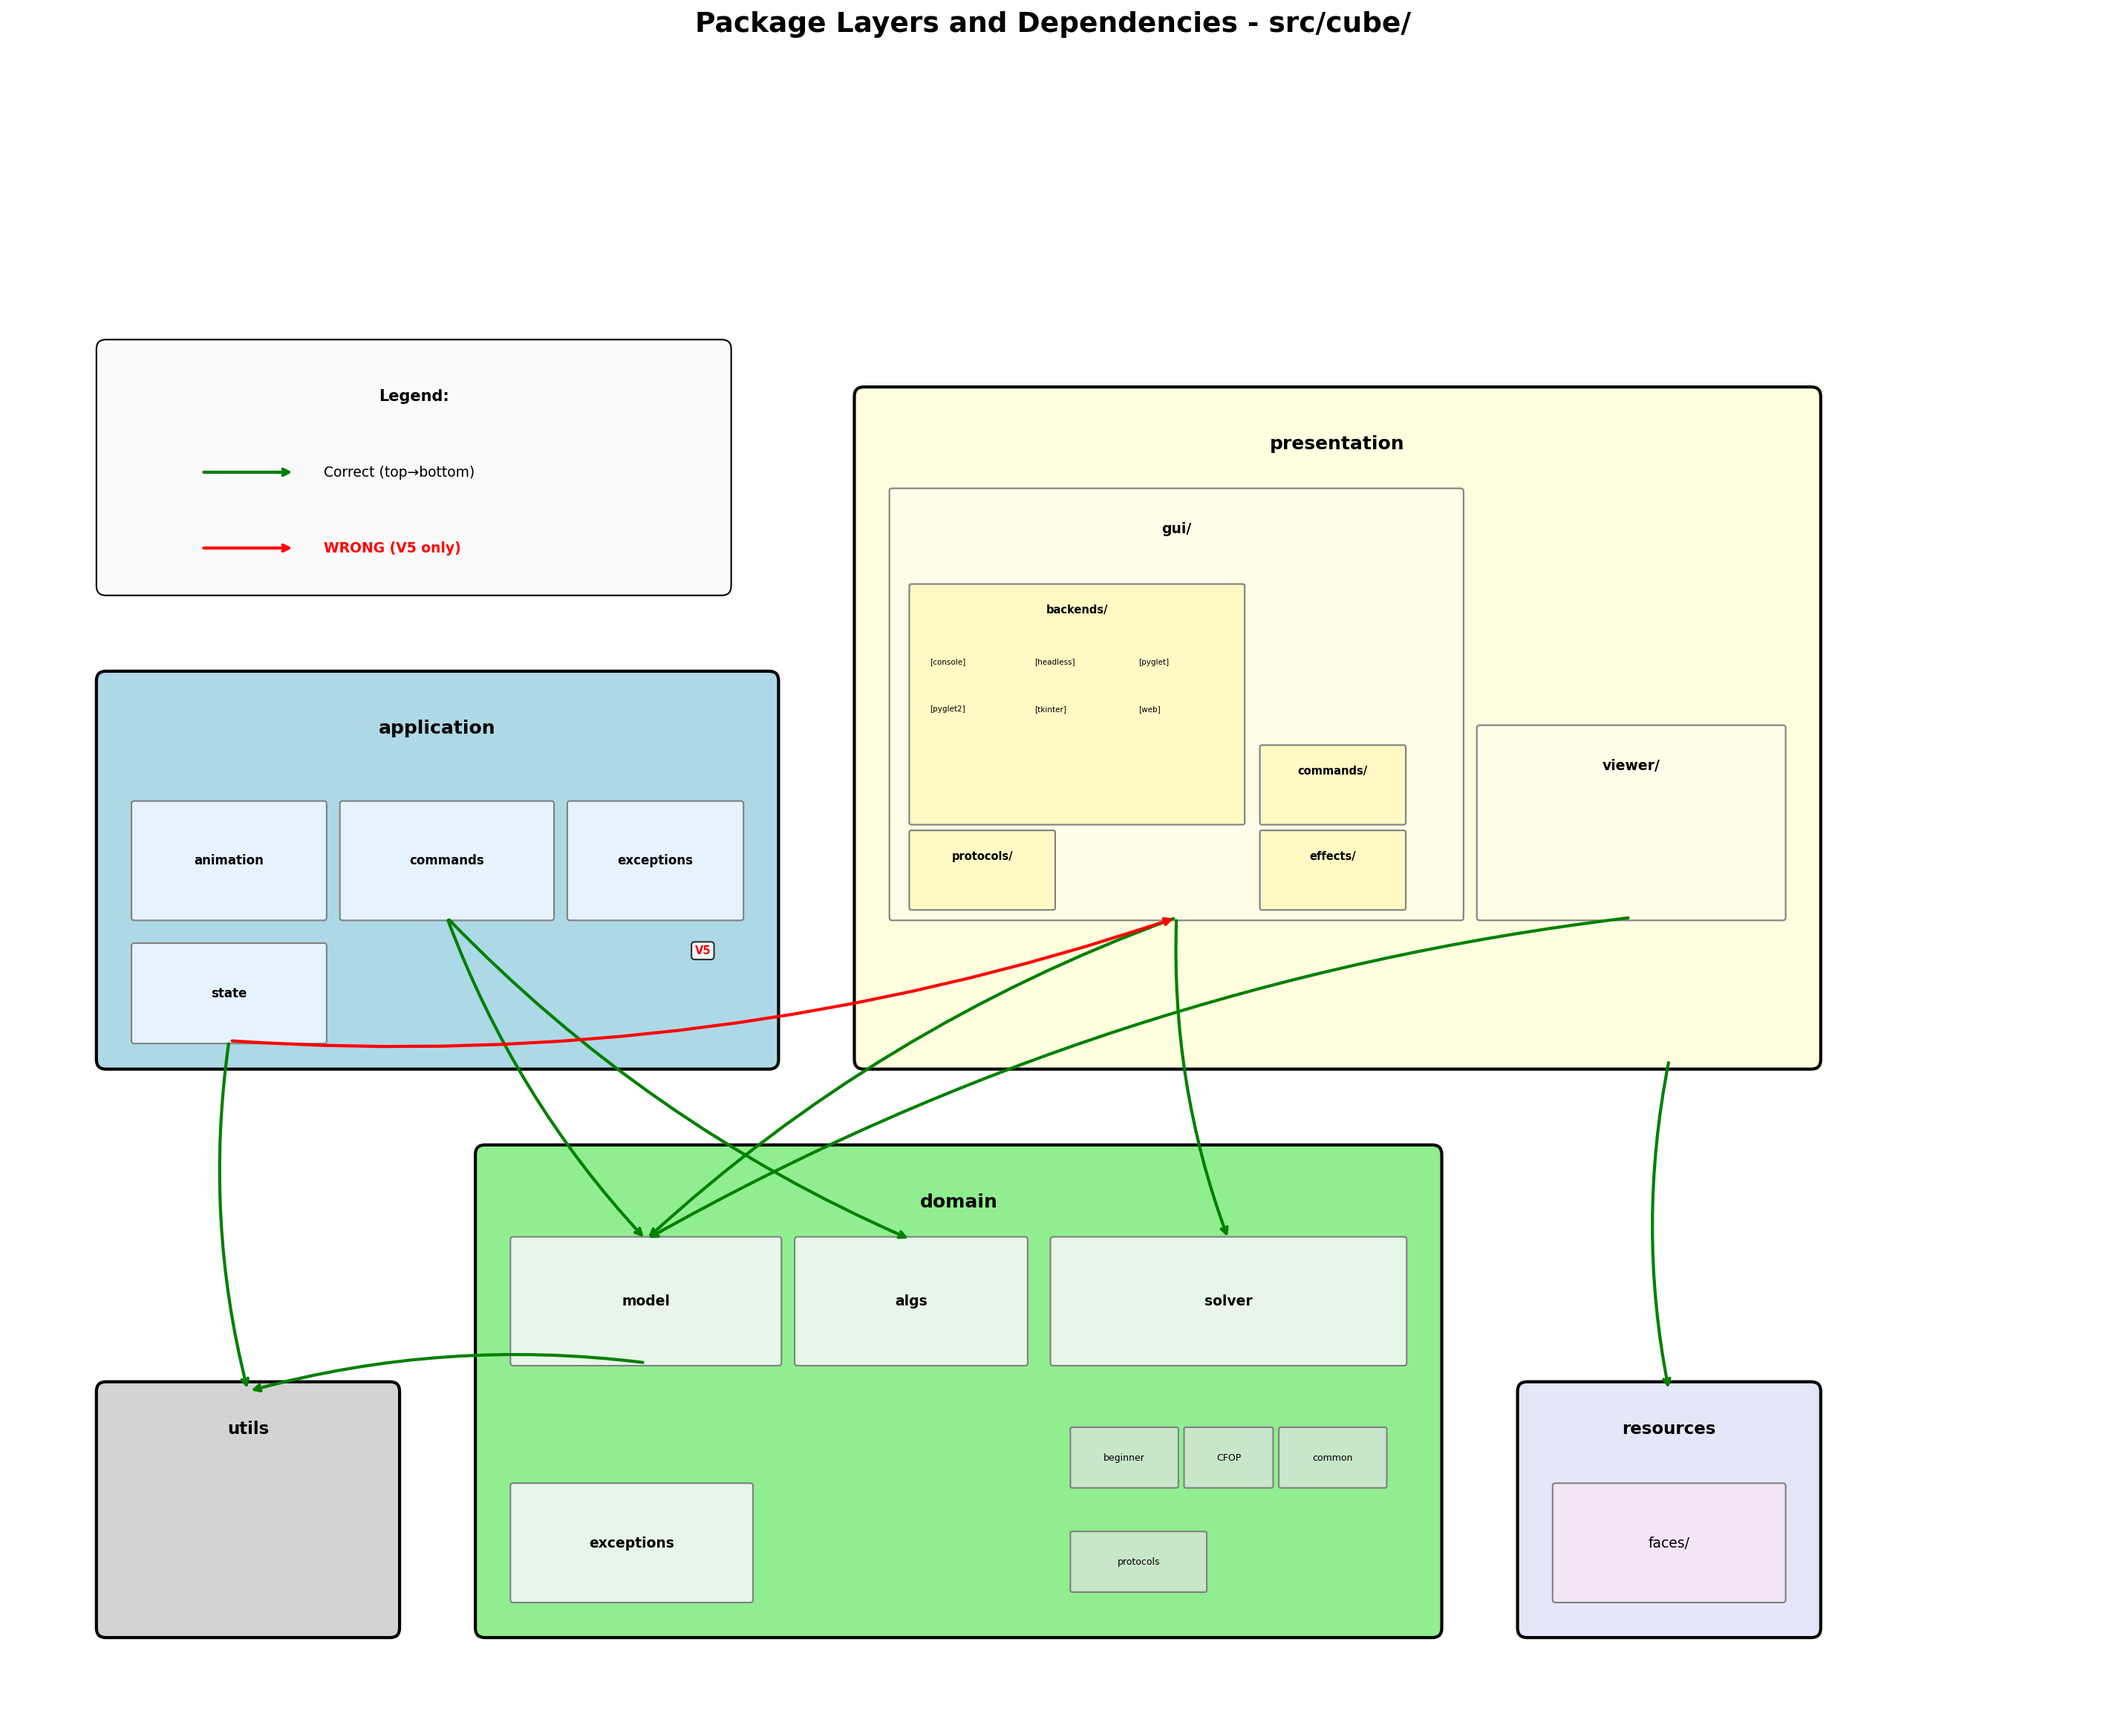
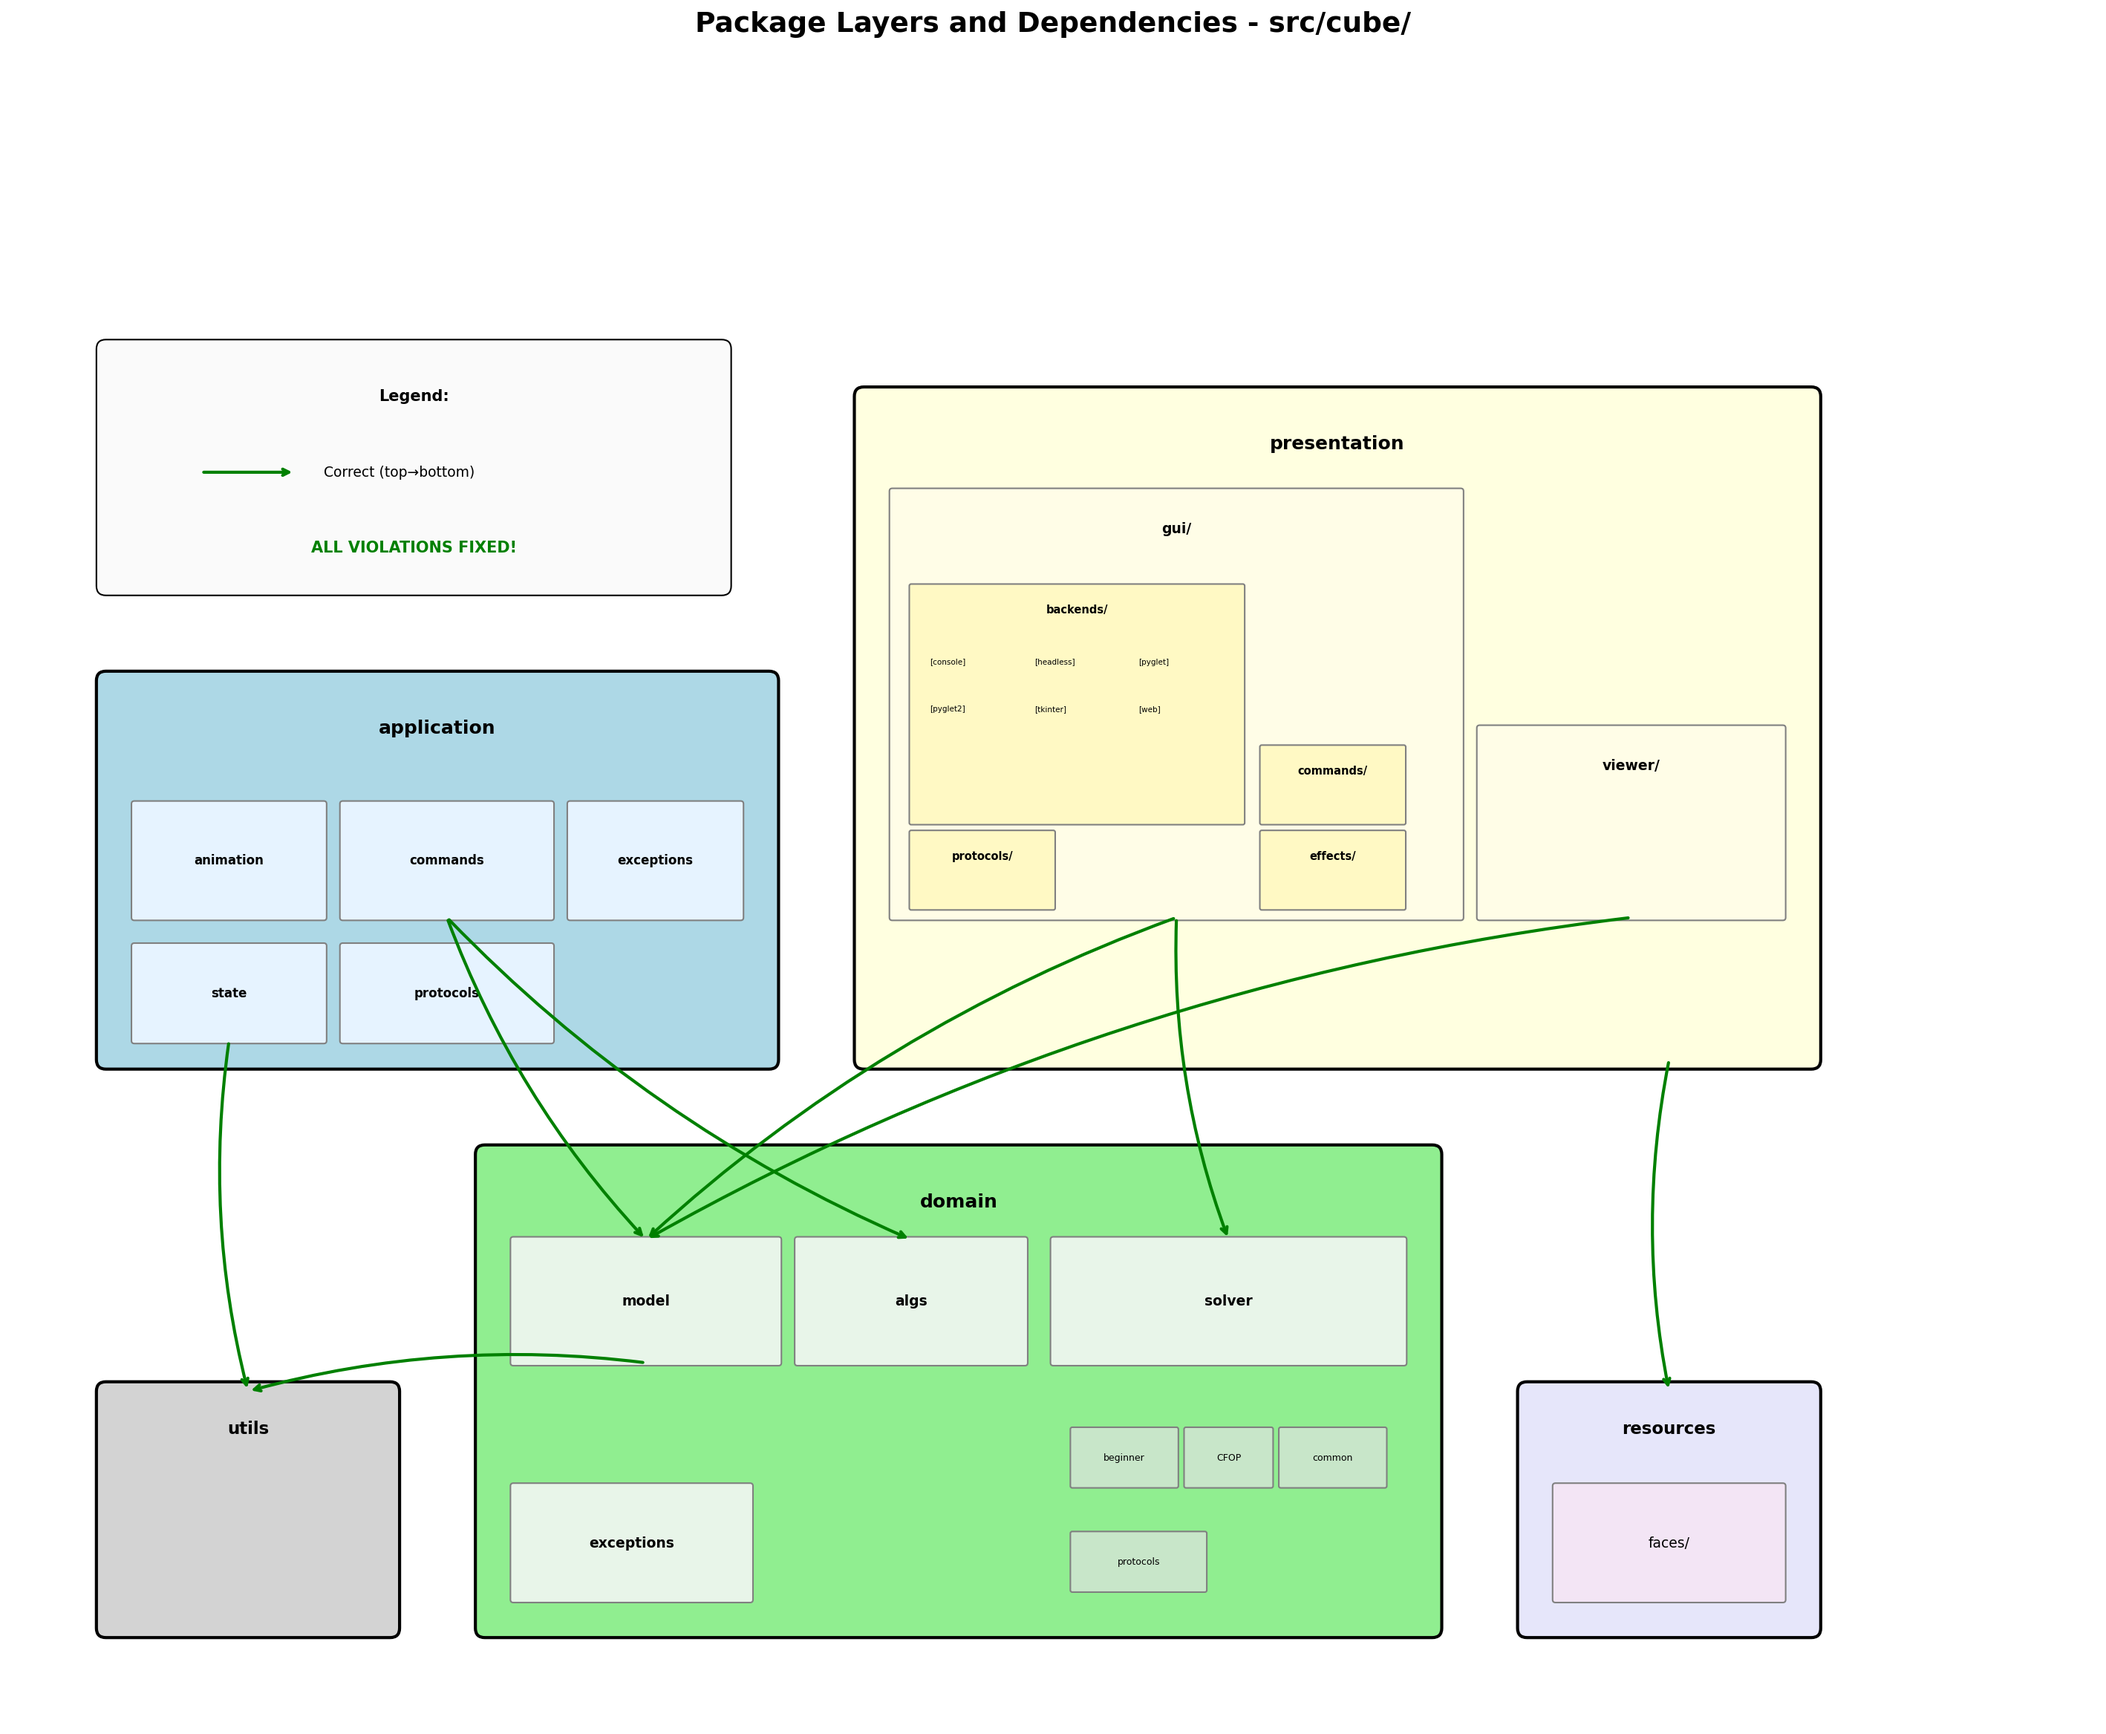
Fix V5c: OpAnnotation/cell import VMarker from domain (not presentation re-export)
- Update imports to use cube.domain.model.VMarker directly
- Delete presentation/viewer/VMarker.py (no longer needed as re-export)
- Update design2 docs: ALL V5 VIOLATIONS FIXED
- Regenerate architecture diagram
- Move Q12 to Done in __todo.md (was fixed by V5b)

🤖 Generated with [Claude Code](https://claude.com/claude-code)

Changed region(s): [[0.1551, 0.5242, 0.2793, 0.6167], [0.1551, 0.3084, 0.2482, 0.3392], [0.3103, 0.5242, 0.3413, 0.555]]

diff --git a/design2/images/generate_layers_diagrams.py b/design2/images/generate_layers_diagrams.py
@@ -7,7 +7,7 @@ Violations status (as of 2025-12-07):
 - V2: FIXED - domain.solver.protocols created
 - V3: FIXED - VMarker moved to domain.model
 - V4: FIXED - ConfigProtocol in utils, application implements it
-- V5: OPEN - application imports protocols/viewer from presentation (4 files)
+- V5: FIXED - Moved protocols to application/protocols, ViewSetup to presentation
 """
 
 import matplotlib.pyplot as plt
@@ -408,6 +408,7 @@ def create_combined_layers_diagram():
         ('commands', 2.5, 7.5, 2.2, 1.2),
         ('exceptions', 4.9, 7.5, 1.8, 1.2),
         ('state', 0.3, 6.2, 2, 1),
+        ('protocols', 2.5, 6.2, 2.2, 1),  # V5 fix: application-level protocols
     ]
     for name, x, y, w, h in app_subs:
         ax.add_patch(FancyBboxPatch((x, y), w, h, boxstyle="round,pad=0.03",
@@ -475,14 +476,10 @@ def create_combined_layers_diagram():
     arrow(1.3, 6.2, 1.5, 2.5, 'green')      # app.state -> utils
     arrow(16.5, 6, 16.5, 2.5, 'green')      # pres -> resources
 
-    # V1, V2, V3, V4 FIXED
-    # V5 OPEN - application imports protocols from presentation (4 files)
+    # ALL VIOLATIONS FIXED (V1-V5)
 
     # Green arrow for V4 fix: domain.model -> utils (config_protocol)
     arrow(5.7, 2.8, 1.5, 2.5, 'green')  # domain.model -> utils (config_protocol)
-
-    # Red arrows for remaining violations
-    arrow(1.3, 6.2, 11.3, 7.5, 'red', 'V5')   # app.animation -> pres.gui.protocols (wrong direction)
 
     # Legend
     ax.add_patch(FancyBboxPatch((0, 11), 6.5, 2.5, boxstyle="round,pad=0.1",
@@ -491,9 +488,8 @@ def create_combined_layers_diagram():
     ax.annotate('', xy=(2, 12.2), xytext=(1, 12.2),
                 arrowprops=dict(arrowstyle='->', color='green', lw=2))
     ax.text(2.3, 12.2, 'Correct (top→bottom)', ha='left', va='center', fontsize=9)
-    ax.annotate('', xy=(2, 11.4), xytext=(1, 11.4),
-                arrowprops=dict(arrowstyle='->', color='red', lw=2))
-    ax.text(2.3, 11.4, 'WRONG (V5 only)', ha='left', va='center', fontsize=9, color='red', fontweight='bold')
+    ax.text(3.25, 11.4, 'ALL VIOLATIONS FIXED!', ha='center', va='center',
+            fontsize=10, color='green', fontweight='bold')
 
     plt.tight_layout()
     plt.savefig('combined-layers-dependencies.png', dpi=150, bbox_inches='tight',

diff --git a/src/cube/application/commands/OpAnnotation.py b/src/cube/application/commands/OpAnnotation.py
@@ -8,7 +8,7 @@ from typing import TypeAlias, TYPE_CHECKING, Callable, Tuple, Literal, ContextMa
 from cube.domain.algs.Algs import Algs
 from cube.application.exceptions.app_exceptions import InternalSWError
 from cube.domain.model import Part, PartColorsID, PartEdge, Corner, Edge, PartSlice
-from cube.presentation.viewer.VMarker import VMarker, viewer_add_view_marker, viewer_remove_view_marker
+from cube.domain.model.VMarker import VMarker, viewer_add_view_marker, viewer_remove_view_marker
 from .AnnWhat import AnnWhat
 
 if TYPE_CHECKING:

diff --git a/src/cube/presentation/viewer/_cell.py b/src/cube/presentation/viewer/_cell.py
@@ -12,7 +12,7 @@ from cube.domain.model.cube_boy import Color, FaceName
 from cube.domain.model.Face import Face
 from cube.utils import geometry
 from .TextureData import TextureData
-from .VMarker import VMarker, viewer_get_markers
+from cube.domain.model.VMarker import VMarker, viewer_get_markers
 from cube.application import config
 from cube.domain.model import PartEdge
 from cube.domain.model import PartSliceHashID

diff --git a/design2/layers-and-dependencies.md b/design2/layers-and-dependencies.md
@@ -77,7 +77,7 @@ This document describes the package structure of `src/cube/` and the dependencie
 | V2  | `domain`  | `application`  | FIXED | Domain imported commands/operators from application |
 | V3  | `domain`  | `presentation` | FIXED | Domain imported VMarker from presentation |
 | V4  | `domain`  | `application`  | FIXED | Domain imported config from application |
-| V5  | `application` | `presentation` | OPEN | Application imports protocols from presentation (4 files) |
+| V5  | `application` | `presentation` | FIXED | Application imports protocols from presentation |
 
 ---
 
@@ -102,17 +102,23 @@ This document describes the package structure of `src/cube/` and the dependencie
 - Domain imports `get_config()` from utils instead of config from application
 - Protocol initialized at app startup via `init_config()`
 
----
+### V5: Application → Presentation (FIXED)
+Three sub-issues fixed:
 
-## Remaining Violations
+**V5a: state.py → Renderer** (FIXED)
+- Created `presentation/gui/ViewSetup.py` utility class
+- Moved view methods (`prepare_objects_view`, `restore_objects_view`, `set_projection`) from state.py to ViewSetup
+- state.py no longer imports from presentation
 
-### V5: Protocols (OPEN)
-Application imports from presentation (4 files):
-- `application/animation/AnimationManager.py` -> `presentation.gui.protocols`
-- `application/commands/OpAnnotation.py` -> `presentation.viewer.VMarker`
-- `application/state.py` -> `presentation.gui.protocols.Renderer`
+**V5b: AnimationManager.py → protocols** (FIXED)
+- Created `application/protocols/` with `EventLoop.py` and `AnimatableViewer.py`
+- These protocols define what application needs; presentation implements them
+- Moved protocols from presentation to application (correct direction)
+- presentation/gui/protocols re-exports for backward compatibility
 
-**Potential fix:** Move protocols to `application/` or use dependency injection
+**V5c: OpAnnotation.py → VMarker** (FIXED)
+- Changed import from `presentation.viewer.VMarker` to `domain.model.VMarker`
+- Deleted `presentation/viewer/VMarker.py` re-export file (no longer needed)
 
 ---
 
@@ -122,7 +128,7 @@ Application imports from presentation (4 files):
 presentation -> application -> domain -> utils/resources
 ```
 
-Currently 1 violation remains (V5) preventing clean architecture.
+**ALL VIOLATIONS FIXED!** Clean architecture achieved.
 
 ---
 

diff --git a/__todo.md b/__todo.md
@@ -242,25 +242,6 @@
   - **File:** `src/cube/presentation/gui/backends/pyglet2/ModernGLCubeViewer.py`
   - **Needs:** Refactoring to match code quality of legacy `GCubeViewer`
 
-- ❌ **Q12.** Fix AppWindow.viewer type mismatch **(CRITICAL)**
-  - **Status:** New (2025-12-06)
-  - **Problem:** Protocol/implementation type mismatch causing mypy errors
-  - **Details:**
-    - `AppWindow` protocol declares `viewer -> GCubeViewer`
-    - `PygletAppWindow` returns `GCubeViewer | ModernGLCubeViewer | None`
-    - `GCubeViewer` and `ModernGLCubeViewer` are siblings (both inherit `AnimatableViewer`)
-  - **Mypy errors:**
-    - `viewer: expected "GCubeViewer", got "GCubeViewer | ModernGLCubeViewer | None"`
-    - Multiple `[abstract]` errors due to type conflicts
-  - **Fix options:**
-    1. Update `AppWindow` protocol to use `AnimatableViewer` as viewer type
-    2. Make `ModernGLCubeViewer` inherit from `GCubeViewer`
-    3. Create common base/protocol for both viewers
-  - **Files:**
-    - `src/cube/presentation/gui/protocols/AppWindow.py:50` - protocol definition
-    - `src/cube/presentation/gui/backends/pyglet2/PygletAppWindow.py:148` - implementation
-    - `src/cube/presentation/gui/protocols/AnimatableViewer.py` - common protocol
-
 - ❌ **Q13.** Evaluate pyright strict mode (1905 errors to fix)
   - **Status:** New (2025-12-07)
   - **Context:** Changed pyright from "basic" to "standard" mode, which catches method override issues
@@ -463,3 +444,10 @@
   - Added `debug()`, `debug_lazy()`, `is_debug()`, `debug_prefix()` methods
   - Migrated solver debug prints to use `vs.debug()` system
   - Added `--debug-all` and `--quiet` CLI flags
+
+- ✅ **Q12.** Fix AppWindow.viewer type mismatch
+  - **Fixed:** 2025-12-07 (as part of V5b layer fix)
+  - **Problem:** Protocol declared `viewer -> GCubeViewer` but implementations returned `GCubeViewer | ModernGLCubeViewer | None`
+  - **Solution:** Updated `AppWindow.viewer` to return `AnimatableViewer` protocol type
+  - `AnimatableViewer` is implemented by both `GCubeViewer` and `ModernGLCubeViewer`
+  - **Files:** `src/cube/presentation/gui/protocols/AppWindow.py:50`

diff --git a/design2/.state/session-status.md b/design2/.state/session-status.md
@@ -1,17 +1,20 @@
 # Session Status
 
 ## Current Phase
-**Documentation Phase** - Creating visual documentation
+**Architecture Fix Phase** - Fixing layer dependency violations
 
 ## Last Updated
-2025-12-06
+2025-12-07
 
 ## Current Focus
-PartEdge Attribute System fully documented with 3 diagrams!
+ALL LAYER VIOLATIONS FIXED! Clean architecture achieved.
 
 ## Completed Tasks
 - [x] Created design2 folder structure
 - [x] Created human-notes.md and claude-notes.md
+- [x] Fixed V5a: Moved view methods from state.py to ViewSetup.py
+- [x] Fixed V5b: Moved EventLoop/AnimatableViewer protocols to application/protocols/
+- [x] Fixed V5c: OpAnnotation.py imports VMarker from domain (deleted presentation re-export)
 - [x] Captured two-phase architecture insight (part methods validity)
 - [x] Created .state mechanism
 - [x] Reformatted human-notes.md

diff --git a/.claude/claude.md b/.claude/claude.md
@@ -79,7 +79,7 @@ All pyglet imports now only exist in:
 
 ```bash
 # 1. Mypy type checker
-python -m mypy src/cube --ignore-missing-imports
+python -m mypy -p cube
 
 # 2. Pyright type checker
 python -m pyright src/cube
